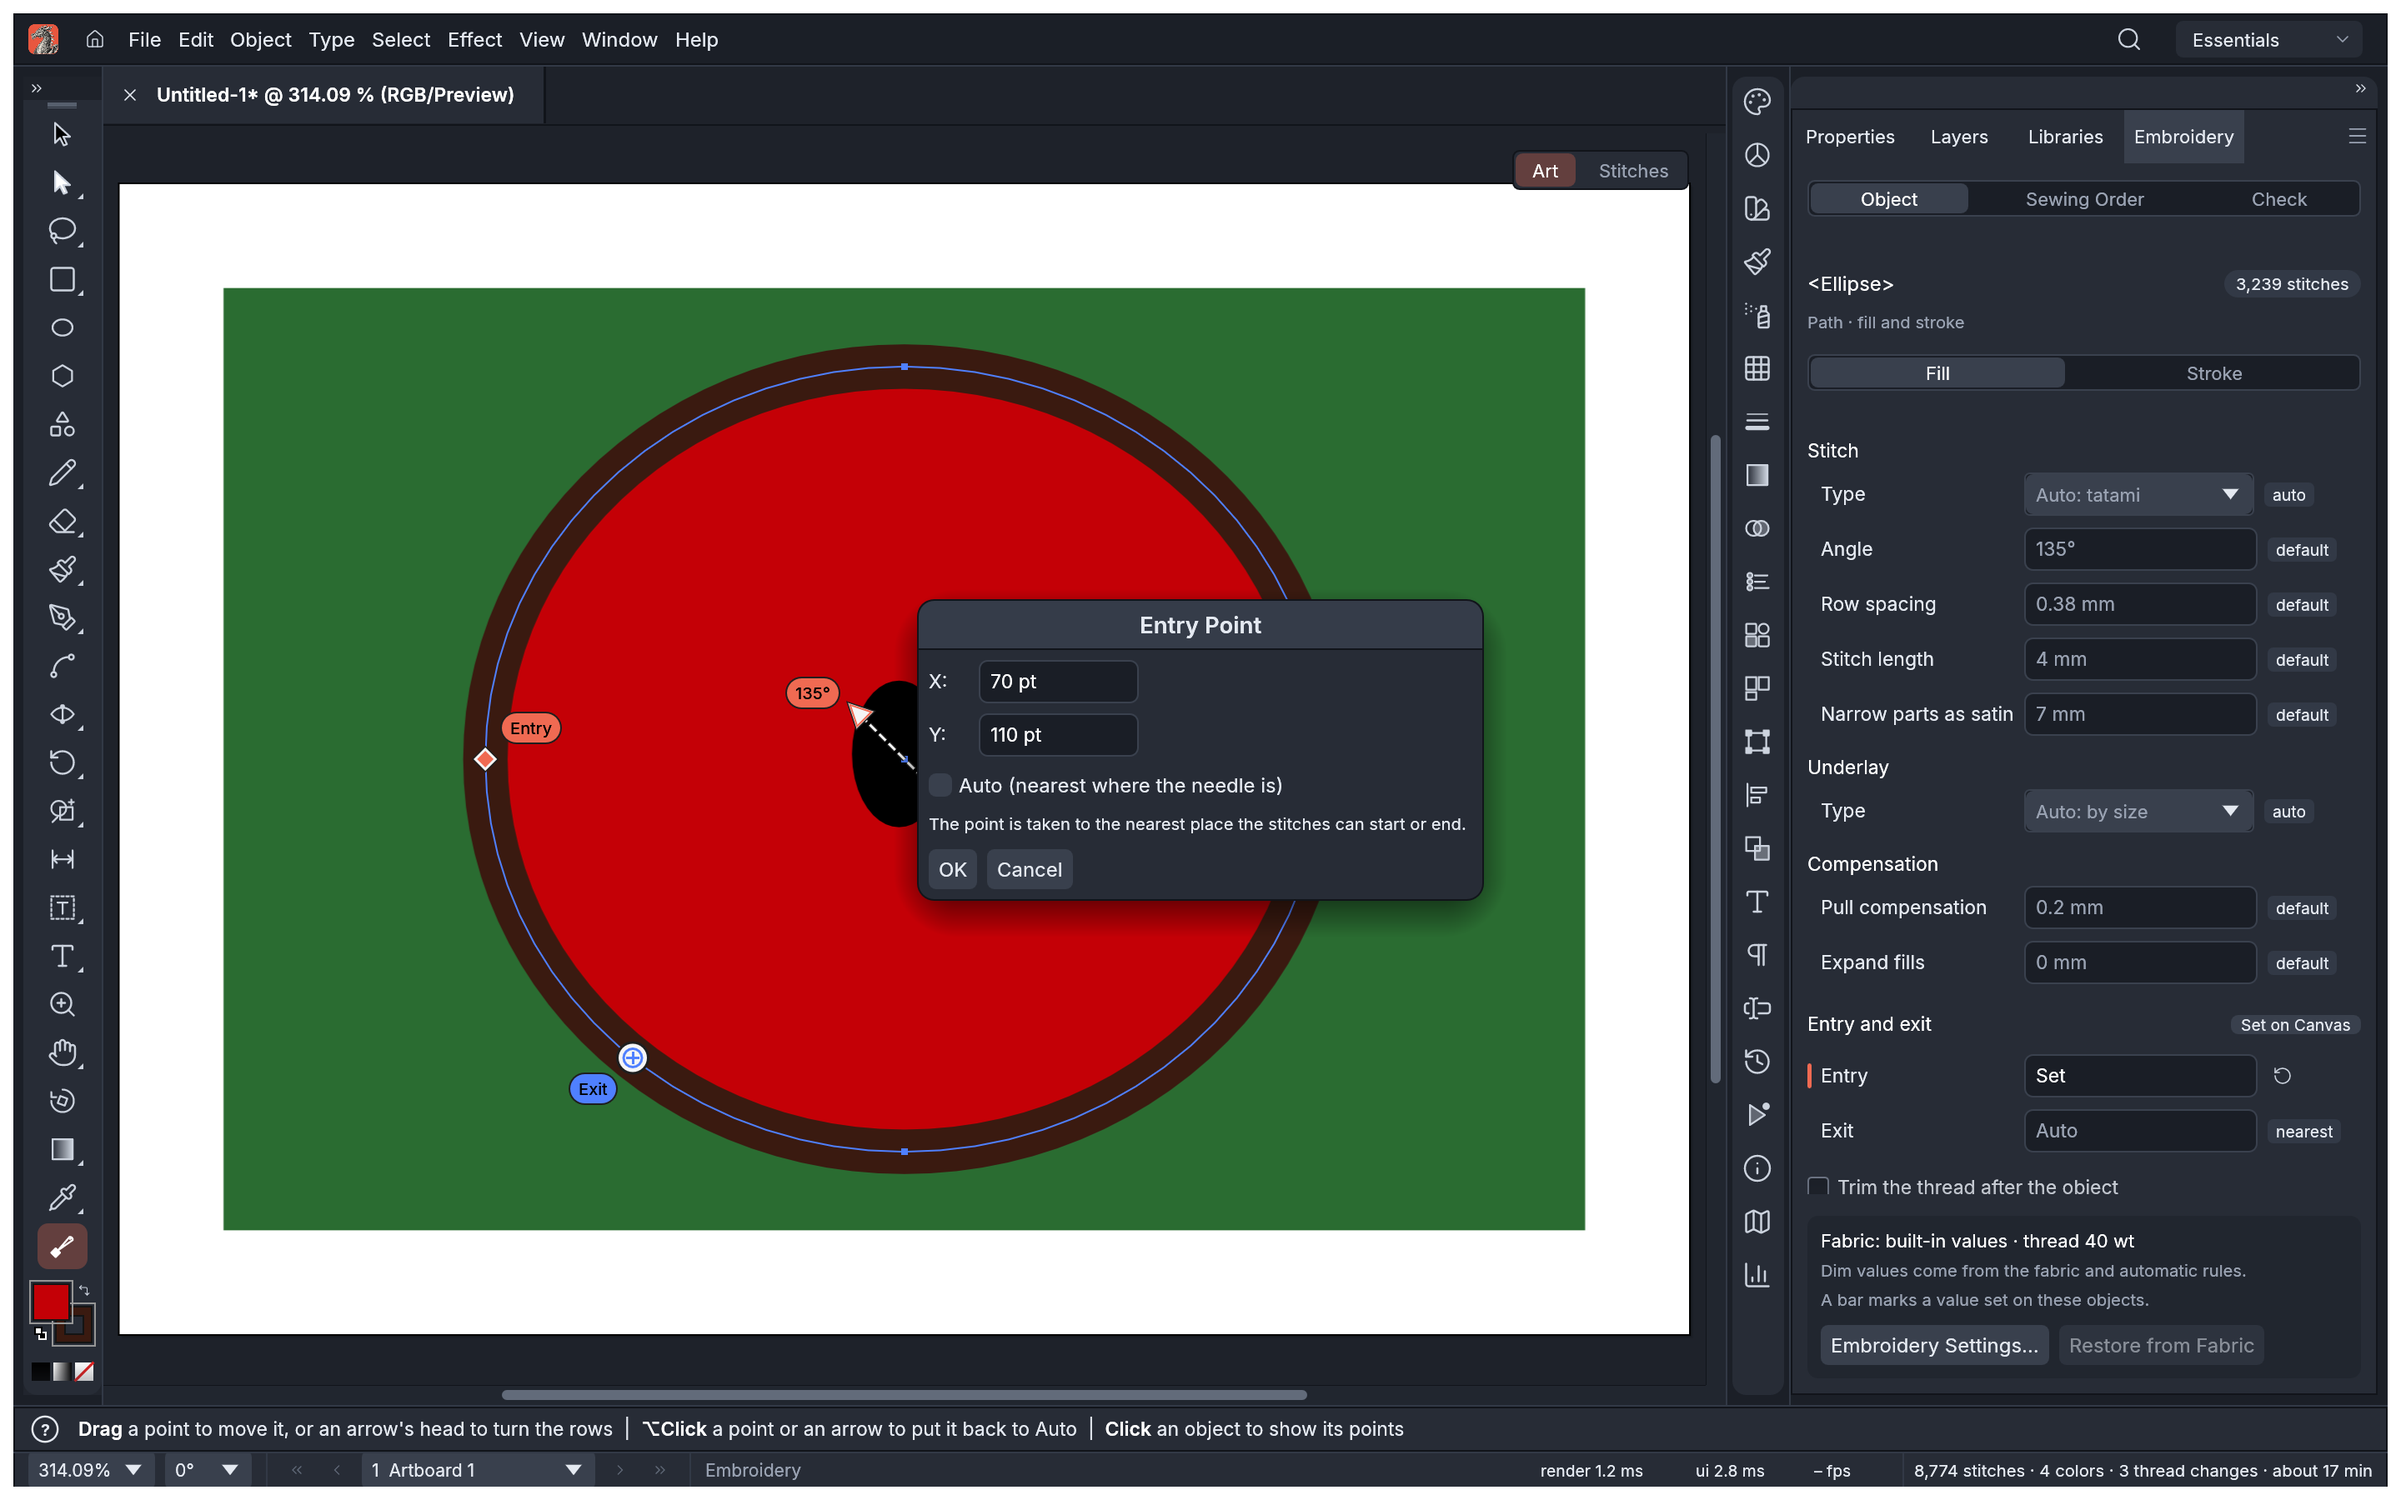
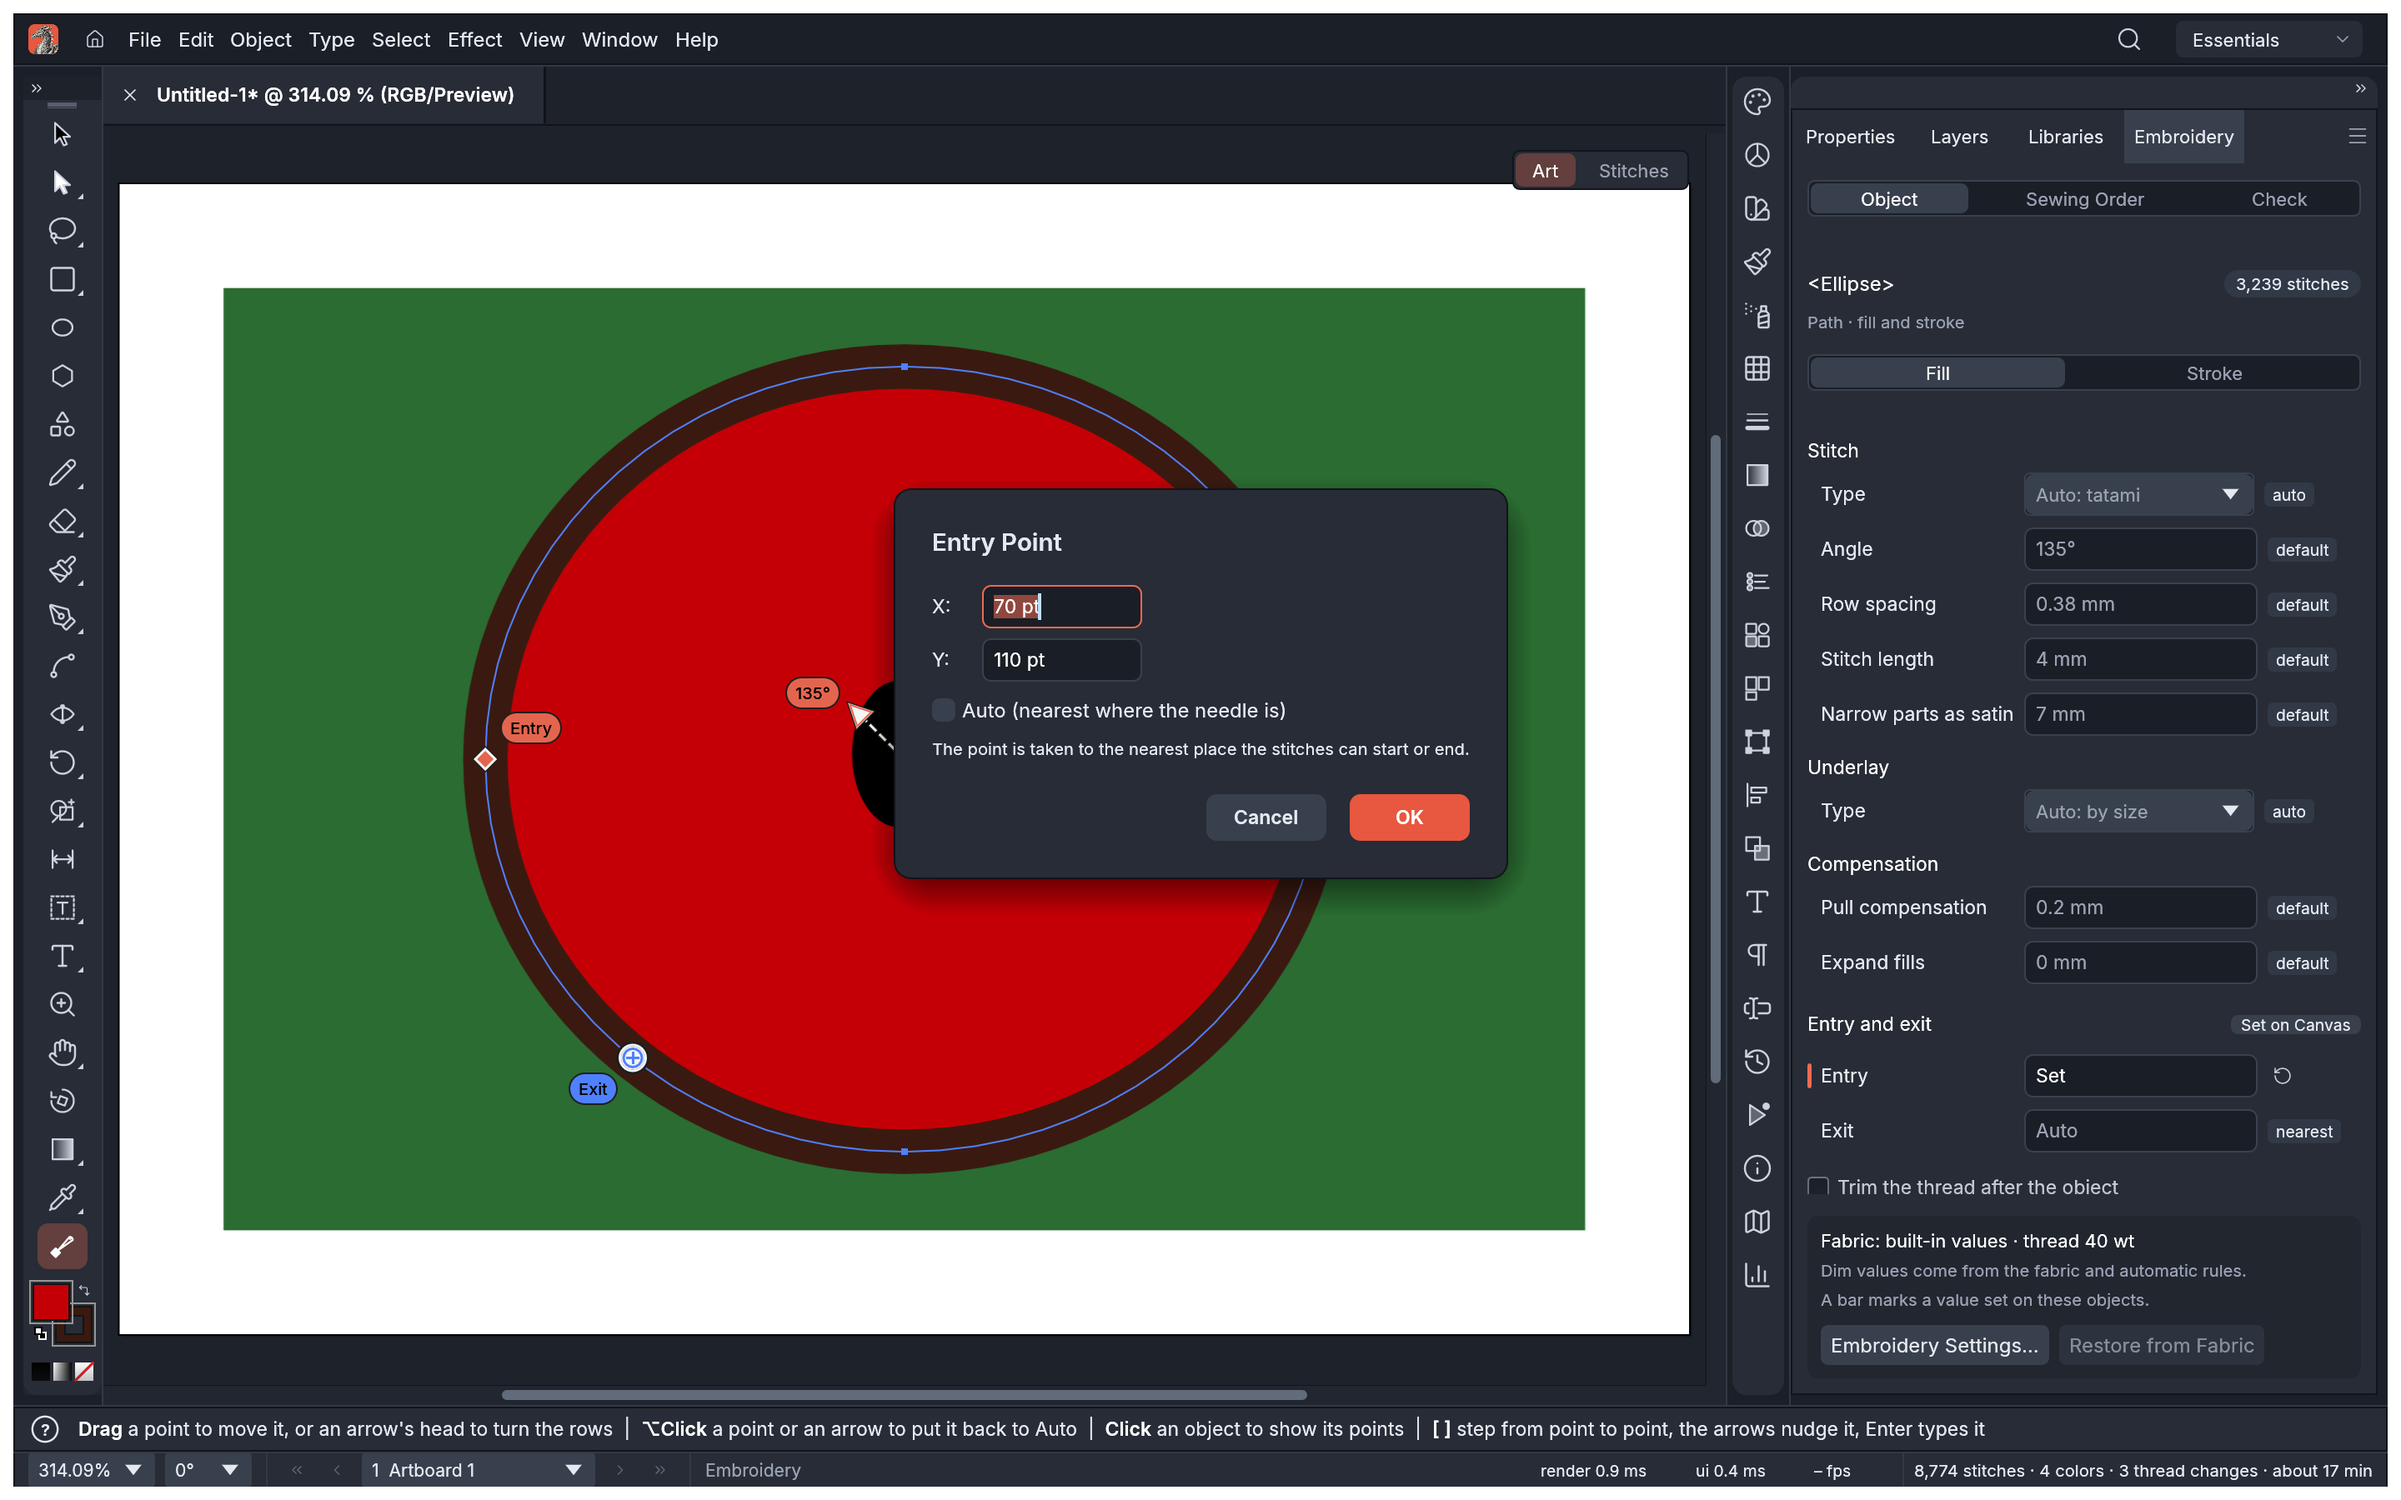
Embroidery docs: the tool's pictures taken again after the review's fixes
The four pictures of the embroidery tool (`docs/images/embroidery-tool-*.png`) are drawn again by
`embroidery_shots`: the entry's face and the arrow head in the accent made readable against the
light edge, the hint naming `[ ]`, the arrows and Enter, and the point dialog as one of upstream's
dialogs. The Object tab's and Document Setup's pictures are left as they were: theirs differ only
in the status bar's timings.

The words table said upstream leaves Alt+Click untranslated in Polish; it names the modifier for
the platform and translates the action ("⌥Kliknij" on a Mac), as the Polish picture shows.

Changed region(s): [[0.3438, 0.3111, 0.6562, 0.6222], [0.5938, 0.9333, 0.8125, 0.9644]]

diff --git a/docs/embroidery-tool-words.md b/docs/embroidery-tool-words.md
@@ -18,7 +18,7 @@ plural row gives its forms as Polish writes them: one, a few (2–4), many.
 | Where | English | Polish |
 |---|---|---|
 | The toolbars, the tool's name | Embroidery Tool | Narzędzie Haft |
-| The status bar's hint | **Drag** a point to move it, or an arrow's head to turn the rows · **Alt+Click** a point or an arrow to put it back to Auto · **Click** an object to show its points · **[ ]** step from point to point, the arrows nudge it, Enter types it | **Przeciągnij** punkt, aby go przesunąć, lub grot strzałki, aby obrócić rzędy · **Alt+Click** punkt lub strzałkę, aby przywrócić Auto · **Kliknij** obiekt, aby pokazać jego punkty · **[ ]** przechodzą od punktu do punktu, strzałki go przesuwają, Enter wpisuje |
+| The status bar's hint | **Drag** a point to move it, or an arrow's head to turn the rows · **Alt+Click** a point or an arrow to put it back to Auto · **Click** an object to show its points · **[ ]** step from point to point, the arrows nudge it, Enter types it | **Przeciągnij** punkt, aby go przesunąć, lub grot strzałki, aby obrócić rzędy · **Alt+Kliknij** punkt lub strzałkę, aby przywrócić Auto · **Kliknij** obiekt, aby pokazać jego punkty · **[ ]** przechodzą od punktu do punktu, strzałki go przesuwają, Enter wpisuje |
 | A handle's label | Entry · Exit | Wejście · Wyjście |
 | The ghost while dragging | jump {value} mm | przeskok {value} mm |
 | … past the trim length | jump {value} mm, cut | przeskok {value} mm, cięcie |
@@ -26,8 +26,9 @@ plural row gives its forms as Polish writes them: one, a few (2–4), many.
 | … on the web | Stitches update when you let go. | Ściegi odświeżą się, gdy puścisz. |
 | The status bar, more than 32 objects selected | Entry and exit points show for the first {count} object selected / … objects selected | Punkty wejścia i wyjścia widać dla pierwszego {count} zaznaczonego obiektu / dla pierwszych {count} zaznaczonych obiektów (both plural forms) |
 
-The hint's bold words (Drag, Alt+Click, Click) are upstream's, shared with the other tools; upstream
-leaves Alt+Click untranslated in Polish, as a key name.
+The hint's bold words (Drag, Alt+Click, Click) are upstream's, shared with the other tools: in a
+chord the modifier is named for the platform (⌥ on a Mac: "⌥Kliknij") and only the action after it
+translates.
 
 ## The point dialog
 
